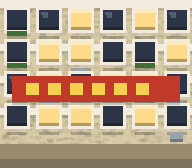
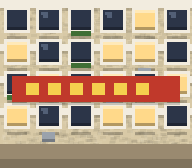
fix(布点/道具): 清理挡门路灯 + 家门口木桩 + 删除家属区拱门
- 新增校验规则「路灯不得挡在建筑门前通路上」→ 精确复现 3 处（宿舍楼 14,-3.7｜食堂 20,3.7｜小卖部 -16,14.3），全部挪到通路之外
- 别墅前院木篱：立柱改为 ±1/±2/±3 米对称布置，正门进出通道留空（原来 0.2 处有根木桩挡在门正中）
- 家属区拱门按作者要求删除（数据 + 渲染分支 + 对应贴图导出）
- 校验零违规；docs/img/v7-*.png 验收图

diff --git a/tools/source/campus.js b/tools/source/campus.js
@@ -71,10 +71,9 @@ export const PROPS = [
   { type: 'plaza', x: -7, z: -6, w: 6.5, d: 5 },
   { type: 'flag', x: -7, z: -6 },
   { type: 'board', x: -7, z: -3.6, ry: Math.PI },
-  // 校门：东侧正门（带校名牌+值班室）／西侧侧门（无匾、带挡杆）；家属区拱门（南端主路上方，装饰）
+  // 校门：东侧正门（带校名牌+值班室）／西侧侧门（无匾、带挡杆）
   { type: 'gate', x: 58, z: 0, ry: -Math.PI / 2, kind: 'main' },
   { type: 'gate', x: -58, z: 0, ry: Math.PI / 2, kind: 'side' },
-  { type: 'arch', x: 0, z: 22, ry: 0 },
   // 长椅（主路旁 / 池塘 / 花园 / 球场边）
   { type: 'bench', x: -26.5, z: -7.4, ry: Math.PI },
   { type: 'bench', x: -22.8, z: -14, ry: -Math.PI / 2 },
@@ -196,14 +195,14 @@ export const LAMPS = [
   // 主纵路
   ...[-14, -4, 6, 14.2, 24].map((z) => [-3.7, z, 0]),
   ...[-9, 4.5, 11, 21, 25.5].map((z) => [3.7, z, Math.PI]),
-  // 中横路（原四盏 + 外延；避开西/东纵路交叉）
-  ...[-46, -26, -14, 14, 26, 34, 44, 54].map((x) => [x, -3.7, -Math.PI / 2]),
-  ...[-30.8, -8, 8, 20, 33.5, 44, 54].map((x) => [x, 3.7, Math.PI / 2]),
+  // 中横路（原四盏 + 外延；避开西/东纵路交叉与各建筑门前通路）
+  ...[-46, -26, -19, 11, 26, 34, 44, 54].map((x) => [x, -3.7, -Math.PI / 2]),
+  ...[-30.8, -8, 8, 23.5, 33.5, 44, 54].map((x) => [x, 3.7, Math.PI / 2]),
   // 北横路
   ...[-28, -18, -8, 13, 18, 28].map((x) => [x, -33.7, -Math.PI / 2]),
   ...[-12, 6, 24].map((x) => [x, -26.3, Math.PI / 2]),
-  // 南横路
-  ...[-28, -16, -6, 6, 16, 26].map((x) => [x, 14.3, -Math.PI / 2]),
+  // 南横路（避开小卖部门前通路）
+  ...[-28, -19.5, -6, 6, 16, 26].map((x) => [x, 14.3, -Math.PI / 2]),
   ...[-24, 24].map((x) => [x, 21.7, Math.PI / 2]),
   // 西纵路（矮墙外侧 0.8m：±3.0 → ±3.3，避开墙线）
   ...[-24, -12, 6, 14].map((z) => [-37.3, z, 0]),

diff --git a/Game/Assets/Scripts/WorldBuilder.cs b/Game/Assets/Scripts/WorldBuilder.cs
@@ -201,11 +201,7 @@ public class WorldBuilder : MonoBehaviour
                     }
                     break;
                 case "arch":
-                    // 家属区装饰拱门（跨主路，不阻挡通行）
-                    Box(grp, new Vector3(-3.4f, 2.2f, 0), new Vector3(0.7f, 4.4f, 0.7f), ColMat("#c9c3b6"));
-                    Box(grp, new Vector3(3.4f, 2.2f, 0), new Vector3(0.7f, 4.4f, 0.7f), ColMat("#c9c3b6"));
-                    Box(grp, new Vector3(0, 4.6f, 0), new Vector3(8.2f, 0.7f, 0.7f), ColMat("#8f8a80"));
-                    Face(grp, 3.2f, 0.9f, new Vector3(0, 3.9f, 0.4f), LitTex("sign_arch"));
+                    // 已废弃（家属区拱门按作者要求删除）；保留空实现以防旧数据引用
                     break;
             }
         }
@@ -593,13 +589,13 @@ public class WorldBuilder : MonoBehaviour
             Box(bg, new Vector3(-0.28f, bh[i] - 0.9f, 0.1f), new Vector3(0.5f, 0.14f, 0.14f), ColMat("#5a8a4a"));
         }
 
-        // 前院木篱（两横杆 + 立柱）
-        foreach (float px in new[] { -2.6f, -1.2f, 0.2f, 1.6f, 3.0f })
+        // 前院木篱（两横杆 + 立柱；正中留出进出家门的口子，不与门前通路冲突）
+        foreach (float px in new[] { -3.0f, -2.0f, -1.0f, 1.0f, 2.0f, 3.0f })
             Box(grp, new Vector3(px, -h / 2f + 0.45f, d / 2f + 3f), new Vector3(0.14f, 0.9f, 0.14f), ColMat("#a87e52"));
         for (int i = 0; i < 2; i++)
         {
-            float cx = i == 0 ? -1.75f : 2f;
-            float len = i == 0 ? 2.1f : 2.4f;
+            float cx = i == 0 ? -2f : 2f;
+            float len = 2.2f;
             Box(grp, new Vector3(cx, -h / 2f + 0.72f, d / 2f + 3f), new Vector3(len, 0.1f, 0.08f), ColMat("#b98d5e"));
             Box(grp, new Vector3(cx, -h / 2f + 0.38f, d / 2f + 3f), new Vector3(len, 0.1f, 0.08f), ColMat("#b98d5e"));
         }
